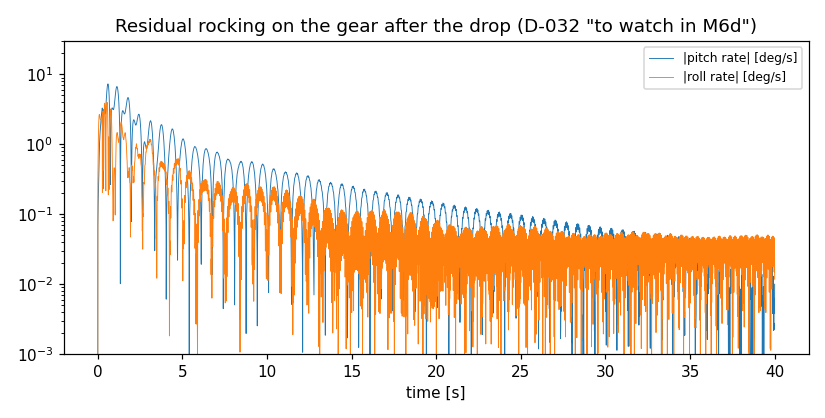
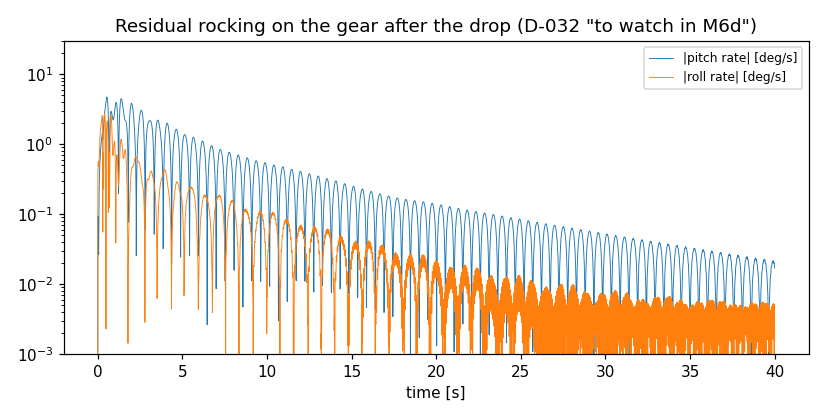
M7a: UH-60A control travels from GenHel Figs. 6.3.1 and 6.4.1
The stick and pedal travels are in GenHel Vol. I after all (cockpit
section). Readings verified by human review. Collective, lateral and
pedal fit the rigging exactly; the generator checks it. Neutral
longitudinal cyclic is uncertain by 0.8 in, so only the two cyclic
offsets stay placeholders, to be pinned against Ballin's trim plots.

The brake-turn test now compares against the brakes-off drift: the new
centred cyclic sits the aircraft 1.1 deg more nose-up, loading the
non-swivelling tail wheel, so the turns are smaller (0.08 and 0.09 deg).
M6d validation numbers regenerated.

Changed region(s): [[0.0909, 0.1866, 0.9394, 0.8708]]

diff --git a/tools/build_uh60a_config.py b/tools/build_uh60a_config.py
@@ -18,10 +18,11 @@ What it works out:
   p. 5.7-9, so positive to starboard), not as a buttline.
 - Controls (§5.5, Figs. 5.1.6(a)-(d)): normalized input -> stick or pedal inches -> GenHel's
   mechanical mixing [deg] -> the swashplate phase rotation (p. 5.1-24), written as the
-  offsets and gains of Eyas's linear control map. The travels in inches are not in GenHel
-  Vol. I, so each is a placeholder spanning the rotor-head pitch limits (p. 5.5-20) with
-  collective full down and the other inputs at zero; every value that depends on them is
-  tagged !placeholder.
+  offsets and gains of Eyas's linear control map. The travels in inches come from GenHel's
+  cockpit section (Figs. 6.3.1 and 6.4.1, pp. 6.16-6.17; D-035). Collective, lateral and pedal
+  fit the rigging exactly (checked here). The longitudinal stroke is given but its rows put
+  neutral cyclic in three places; neutral is their mean, and the values that depend on it
+  (the theta1s and theta1c offsets) are tagged !placeholder.
 """
 
 import argparse
@@ -121,28 +122,68 @@ def gear_constants():
     return out
 
 
-def control_map(rig, mr):
+def travels(rig, tv):
+    """Stick and pedal travels [in] from Figs. 6.3.1 and 6.4.1, checked against the rigging.
+
+    Returns (xc, xa, xb, xp, lon_spread): each travel as (inches at -1 or 0, inches at +1),
+    and the spread [in] of the three neutral-cyclic estimates behind xb.
+    """
+    def thosum(xc_in):
+        return rig["KXCTH0"] * xc_in
+
+    def close(a, b, what, tol=0.01):
+        if abs(a - b) > tol:
+            raise ValueError(f"control travels: {what}: {a:.4f} against {b:.4f} deg")
+
+    # Collective: 0 in (full down) to the stroke; the figure's ends must be the rigging's.
+    xc = (0.0, tv["STROKE_C"])
+    close(thosum(xc[0]) + rig["BIAS_C"], tv["TH0_LOW"], "collective low")
+    close(thosum(xc[1]) + rig["BIAS_C"], tv["TH0_HIGH"], "collective high")
+    xc_low, xc_mid, xc_high = xc[0], 0.5 * (xc[0] + xc[1]), xc[1]
+
+    # Pedal: the pinned (neutral) pedal gives the figure's 15.0 deg at mid collective; the
+    # travel is the stroke with overtravel, which the figure's end rows use.
+    xp_n = (tv["P_PIN_THR"] - thosum(xc_mid) - rig["BIAS_P"]) / rig["KXPTHR"]
+    h = 0.5 * tv["STROKE_P_OVR"]
+    close(h, tv["P_LEFT_IN"], "pedal half stroke (left)", 1e-9)
+    close(h, tv["P_RIGHT_IN"], "pedal half stroke (right)", 1e-9)
+    xp = (xp_n - h, xp_n + h)  # -1 = full left (more thrust), +1 = full right
+    close(rig["KXPTHR"] * xp[0] + thosum(xc_mid) + rig["BIAS_P"], tv["P_LEFT_THR"], "pedal left")
+    close(rig["KXPTHR"] * xp[1] + thosum(xc_mid) + rig["BIAS_P"], tv["P_RIGHT_THR"], "pedal right")
+
+    # Lateral: the rows are at low collective; neutral from the right row, the others checked.
+    def a1s(xa_in, xc_in):
+        return rig["KXAA1S"] * xa_in + rig["MIX_AC"] * thosum(xc_in) + rig["BIAS_A"]
+    xa_n = (tv["A_RIGHT_A1S"] - rig["MIX_AC"] * thosum(xc_low) - rig["BIAS_A"]) / rig["KXAA1S"] \
+        - tv["A_RIGHT_IN"]
+    xa = (xa_n - 0.5 * tv["STROKE_A"], xa_n + 0.5 * tv["STROKE_A"])
+    close(a1s(xa_n - tv["A_LEFT_IN"], xc_low), tv["A_LEFT_A1S"], "lateral left")
+    close(a1s(xa_n - tv["A_PIN_IN"], xc_low), tv["A_PIN_A1S"], "lateral pinned")
+
+    # Longitudinal, with the pedal at neutral: each row gives its own neutral cyclic. They
+    # disagree by up to 0.8 in (DATA_GAPS.md), so neutral is their mean.
+    kb = rig["KXBB1S"] * rig["SIGN_XB2"]
+
+    def b1s_rest(xc_in):  # B1S with the stick at XB+2 = 0
+        return (rig["MIX_BC"] * thosum(xc_in) + rig["MIX_BP"] * rig["KXPTHR"] * xp_n
+                + rig["BIAS_B"])
+    est = [(tv["B_FWD_B1S"] - b1s_rest(xc_high)) / kb - tv["B_FWD_IN"],
+           (tv["B_PIN_B1S"] - b1s_rest(xc_low)) / kb + tv["B_PIN_IN"],
+           (tv["B_AFT_B1S"] - b1s_rest(xc_mid)) / kb + tv["B_AFT_IN"]]
+    xb_n = sum(est) / len(est)
+    xb = (xb_n - 0.5 * tv["STROKE_B"], xb_n + 0.5 * tv["STROKE_B"])  # -1 = full aft
+    return xc, xa, xb, xp, max(est) - min(est)
+
+
+def control_map(rig, mr, tv):
     """Normalized controls -> GenHel inches -> blade pitch, as linear-map rows [deg].
 
-    Returns (travel, main, tail): travel maps each input to (inches at -1 or 0, inches at +1);
+    Returns (travel, main, tail, lon_spread): travel maps each input to (inches at -1 or 0, inches at +1);
     main and tail are {row: {input: gain [deg per unit], 'offset': deg}}.
     """
     sx = rig["SIGN_XB2"]
-    # Travels (placeholders): the span of each head limit with collective full down (XC = 0)
-    # and the other inputs at zero; length = head range / gain.
-    xc = (0.0, (rig["TH0_UL"] - rig["BIAS_C"]) / rig["KXCTH0"])  # collective 0..1
-    xa = ((rig["A1S_LL"] - rig["BIAS_A"]) / rig["KXAA1S"],
-          (rig["A1S_UL"] - rig["BIAS_A"]) / rig["KXAA1S"])        # lat -1..+1 (right = A1S up)
-    kb = rig["KXBB1S"] * sx                                      # B1S per inch of XB+2
-    xb_lo = (rig["B1S_LL"] - rig["BIAS_B"]) / kb
-    xb_hi = (rig["B1S_UL"] - rig["BIAS_B"]) / kb
-    xb = (min(xb_lo, xb_hi), max(xb_lo, xb_hi))
-    # Forward stick must raise B1S (tilt the disc forward); with kb > 0 that is +XB+2.
-    if kb < 0:
-        xb = (xb[1], xb[0])
-    xp_hi = (rig["THR_LL"] - rig["BIAS_P"]) / rig["KXPTHR"]       # right pedal: less thrust
-    xp_lo = (rig["THR_UL"] - rig["BIAS_P"]) / rig["KXPTHR"]
-    xp = (xp_lo, xp_hi)
+    kb = rig["KXBB1S"] * sx  # B1S per inch of forward stick (XB+2)
+    xc, xa, xb, xp, lon_spread = travels(rig, tv)
     travel = {"collective": xc, "lat_cyclic": xa, "lon_cyclic": xb, "pedal": xp}
 
     def affine(lo, hi, zero_to_one):
@@ -180,15 +221,16 @@ def control_map(rig, mr):
     theta1s = add((math.sin(d), a1s), (-math.cos(d), b1s))
     main = {"theta0": theta0, "theta1s": theta1s, "theta1c": theta1c}
     tail = {"theta0": thettr}
-    return travel, main, tail
+    return travel, main, tail, lon_spread
 
 
-def map_rows(rows, indent):
-    """YAML for a linear control map; every value depends on the placeholder travels."""
+def map_rows(rows, indent, placeholders=()):
+    """YAML for a linear control map; the (row, input) pairs in `placeholders` are tagged."""
     order = ("offset", "collective", "lon_cyclic", "lat_cyclic", "pedal")
     lines = []
     for row, gains in rows.items():
-        items = [f"{k}: {q(float(f'{gains[k]:.10g}'), 'deg', True)}" for k in order
+        items = [f"{k}: {q(float(f'{gains[k]:.10g}'), 'deg', (row, k) in placeholders)}"
+                 for k in order
                  if k in gains and gains[k] != 0.0]
         lines.append(f"{indent}{row}: {{{', '.join(items)}}}")
     return "\n".join(lines)
@@ -210,7 +252,8 @@ def build():
     def pos(fs, bl, wl):
         return vec(-(fs - fs_cg), -(bl - bl_cg), -(wl - wl_cg))
 
-    travel, main_map, tail_map = control_map(rig, mr)
+    tv = constants("control_travels_6_3.txt")
+    travel, main_map, tail_map, lon_spread = control_map(rig, mr, tv)
     k_main = 10.0 * vertical_slope("main_tire_vertical.csv", gear["PM"])
     k_tail = 10.0 * vertical_slope("tail_tire_vertical.csv", gear["PN"])
 
@@ -271,10 +314,11 @@ def build():
 # FS {fmt(round(fs_cg, 4))}, BL {fmt(round(bl_cg, 4))}, WL {fmt(round(wl_cg, 4))} in, the origin of every position here.
 # Positions: x = -(FS - FS_cg), y = -(BL - BL_cg) (buttlines positive to port), z = -(WL - WL_cg).
 #
-# Controls (D-034): stick and pedal travels are not in GenHel Vol. I. Placeholders spanning the
-# rotor-head pitch limits with collective down:
+# Controls (D-034, D-035): stick and pedal travels from GenHel Figs. 6.3.1 and 6.4.1 (pp. 6.16-6.17):
 #   {trav}.
-# Every control-map value depends on them and is tagged !placeholder.
+# Collective, lateral and pedal fit the rigging exactly; the pedal uses its stroke with overtravel.
+# The longitudinal rows put neutral cyclic in three places {fmt(round(lon_spread, 3))} in apart; neutral is
+# their mean, so the theta1s and theta1c offsets are tagged !placeholder.
 
 geodetic_origin: {{latitude: "0 deg", longitude: "0 deg", altitude: "0 m"}}  # scenario, not aircraft data
 
@@ -309,7 +353,7 @@ components:
         inertia: "{fmt(mr["I_B"])} slug*ft^2"
         delta3: "{fmt(mr["DELTA_3"])} deg"
     controls:
-{map_rows(main_map, "      ")}
+{map_rows(main_map, "      ", (("theta1s", "offset"), ("theta1c", "offset")))}
 
   - type: airframe_aero
     name: airframe

diff --git a/tests/unit/test_uh60a_aircraft.cpp b/tests/unit/test_uh60a_aircraft.cpp
@@ -25,22 +25,16 @@ constexpr double kDeg = std::numbers::pi / 180.0;
 // ---- Config ------------------------------------------------------------------------
 
 // The config loads through the public API, with exactly the placeholders
-// D-034 declares: the control map (it depends on the stick and pedal travels,
-// which GenHel Vol. I doesn't give) and the strut top stops (D-032 item 6).
+// D-034 and D-035 declare: the cyclic offsets (they depend on neutral
+// longitudinal cyclic, which GenHel's Fig. 6.3.1 leaves uncertain by 0.8 in)
+// and the strut top stops (D-032 item 6).
 TEST(Uh60aAircraft, ConfigLoadsWithTheDeclaredPlaceholders) {
     const Model m = Model::from_file(test::uh60a_config_path());
     std::vector<std::string> p = m.placeholders();
     std::sort(p.begin(), p.end());
     std::vector<std::string> expect;
     for (const char* r : {"theta1c", "theta1s"}) {
-        for (const char* k : {"collective", "lat_cyclic", "lon_cyclic", "offset", "pedal"}) {
-            expect.push_back(std::string("components[0].controls.") + r + "." + k);
-        }
-    }
-    expect.emplace_back("components[0].controls.theta0.collective");
-    expect.emplace_back("components[0].controls.theta0.offset");
-    for (const char* k : {"collective", "offset", "pedal"}) {
-        expect.push_back(std::string("components[2].controls.theta0.") + k);
+        expect.push_back(std::string("components[0].controls.") + r + ".offset");
     }
     for (const char* g : {"0", "1", "2"}) {
         expect.push_back(std::string("components[3].gears[") + g + "].strut.stop_damping");
@@ -157,13 +151,17 @@ TEST(Uh60aAircraft, OneBrakeTurnsTowardsItsSide) {
         return std::remainder(h - h0, 2.0 * std::numbers::pi);
     };
     const double free = heading_after(0.0, 0.0);
+    const double drift = std::abs(turn(free, 0.0));
     const double left = turn(heading_after(1.0, 0.0), free);
     const double right = turn(heading_after(0.0, 1.0), free);
-    // About −0.26° and +0.51°: the tire side forces, the tail wheel's above
-    // all (it doesn't swivel, D-032), take most of the brake's yaw moment.
-    // The free run drifts 0.02°.
-    EXPECT_LT(left, -0.1 * kDeg);  // nose left: heading decreases
-    EXPECT_GT(right, 0.1 * kDeg);
+    // About −0.083° and +0.090°, against a free-run drift of 0.017°: the tire
+    // side forces, the tail wheel's above all (it doesn't swivel, D-032), take
+    // most of the brake's yaw moment. The turn depends on the load on the tail
+    // wheel, and so on the attitude the rotor's flat-pitch cyclic gives (0.26°
+    // and 0.51° with D-034's placeholder travels, 1.1° less nose-up).
+    EXPECT_GT(drift, 0.0);
+    EXPECT_LT(left, -3.0 * drift);  // nose left: heading decreases
+    EXPECT_GT(right, 3.0 * drift);
 }
 
 // ---- Control rigging (layer 1) -----------------------------------------------------

diff --git a/tests/support/m6d_fixtures.hpp b/tests/support/m6d_fixtures.hpp
@@ -41,24 +41,29 @@ inline constexpr double kGenHelWeight = 16638.0;  // [lbm]
 inline constexpr double kFSCG = 355.9;            // [in]
 inline constexpr double kWLCG = 248.2;            // [in]
 
-// The placeholder travels (D-034): each spans the rotor-head pitch limits
-// (p. 5.5-20) with collective down and the other inputs at zero. Normalized
-// input → GenHel inches. Shared by the tests and the validation run; if the
-// travels change in tools/build_uh60a_config.py, ControlMapsAreGenHelsRigging
-// fails until these follow.
+// The travels (D-035), from GenHel Figs. 6.3.1 and 6.4.1 (pp. 6.16-6.17),
+// written out here from the figure rather than taken from the generator.
+// Normalized input → GenHel inches. Shared by the tests and the validation
+// run; if the travels change in tools/build_uh60a_config.py,
+// ControlMapsAreGenHelsRigging fails until these follow.
 struct Travels {
-    static double xc(double c) { return 10.0 * c; }       // 9.9..25.9 deg / 1.6
-    static double xa(double l) { return 5.0 + 5.0 * l; }  // ±8 deg / 1.6
-    static double xb2(double f) {                         // −12.5..16.3 deg / 2.83
-        const double lo = (-12.5 + 9.7754) / 2.83;
-        const double hi = (16.3 + 9.7754) / 2.83;
-        return 0.5 * (lo + hi) + 0.5 * (hi - lo) * f;
+    static double xc(double c) { return 10.0 * c; }       // stroke 10.0 in, 0 = full down
+    static double xa(double l) { return 5.0 + 5.0 * l; }  // stroke 10.0 in, neutral 5.0 in
+    // Stroke 10.0 in about neutral cyclic, the mean of the three neutrals the
+    // figure's rows imply (pedal at neutral; they spread by 0.81 in, DATA_GAPS.md).
+    static double xb2(double f) {
+        const double b_rest_high = 0.29 * 16.0 - 0.2936 * -5.539 * kXpNeutral - 9.7754;
+        const double b_rest_mid = 0.29 * 8.0 - 0.2936 * -5.539 * kXpNeutral - 9.7754;
+        const double b_rest_low = -0.2936 * -5.539 * kXpNeutral - 9.7754;
+        const double neutral = ((16.5 - b_rest_high) / 2.83 - 5.0 + (-11.0 - b_rest_low) / 2.83 +
+                                3.89 + (-12.3 - b_rest_mid) / 2.83 + 5.0) /
+                               3.0;
+        return neutral + 5.0 * f;
     }
-    static double xp(double p) {  // 36.5..4.5 deg / −5.539 (right pedal: less thrust)
-        const double lo = (36.5 - 21.9) / -5.539;
-        const double hi = (4.5 - 21.9) / -5.539;
-        return 0.5 * (lo + hi) + 0.5 * (hi - lo) * p;
-    }
+    // Stroke with overtravel 5.38 in about the pinned pedal, which gives 15.0°
+    // at mid collective: (21.9 + 1.6 × 5 − 15.0) / 5.539 in. Right pedal: less thrust.
+    static constexpr double kXpNeutral = (21.9 + 8.0 - 15.0) / 5.539;
+    static double xp(double p) { return kXpNeutral + 2.69 * p; }
 };
 
 // The UH-60A components, built from the config, evaluated outside the

diff --git a/docs/VALIDATION.md b/docs/VALIDATION.md
@@ -489,7 +489,7 @@ M6d puts the UH-60A together from data (D-034):
 
 The config is `data/uh60a/uh60a.yaml`, written by `tools/build_uh60a_config.py` from the GenHel transcriptions (new: main- and tail-rotor constants, airframe stations, mass properties and the control rigging of §5.5).
 - **Mass:** GenHel's weight and CG are the whole aircraft's. The airframe excludes the blades and the unsprung masses, which carry their own weight. Its CG lies 1.03 in aft of and 3.61 in below GenHel's, and every position in the config is measured from it.
-- **Controls:** the controls follow GenHel's mechanical mixing and swashplate phase. The stick and pedal travels are placeholders (GenHel Vol. I doesn't give them), so the hover controls below are also given in GenHel's inches and degrees.
+- **Controls:** the controls follow GenHel's mechanical mixing and swashplate phase. The stick and pedal travels were placeholders in M6d; since M7a they come from GenHel's cockpit figures (Figs. 6.3.1 and 6.4.1; D-035), with neutral longitudinal cyclic uncertain by 0.8 in. The hover controls below are also given in GenHel's inches and degrees.
 
 This completes M6.
 
@@ -499,12 +499,12 @@ Tests: `tests/unit/test_uh60a_aircraft.cpp`. The harness in `tests/support/m6d_f
 
 | Acceptance criterion | Status | Evidence |
 |---|---|---|
-| Config | ✅ | `ConfigLoadsWithTheDeclaredPlaceholders`: the model loads through `Model::from_file`, and the placeholders are exactly the control maps (the travels) and the strut top stops (D-032). `tools/build_uh60a_config.py --check` matches the YAML to the transcriptions (in CI). |
+| Config | ✅ | `ConfigLoadsWithTheDeclaredPlaceholders`: the model loads through `Model::from_file`, and the placeholders are exactly the main rotor's two cyclic offsets (neutral longitudinal cyclic, D-035) and the strut top stops (D-032). `tools/build_uh60a_config.py --check` matches the YAML to the transcriptions (in CI). |
 | Mass and geometry (D-034 items 2, 3) | ✅ | `MassSplitKeepsGenHelsWeightAndCg`: airframe + blades + unsprung masses = 16 638 lbm to 1e-5 lbm. Their CG is GenHel's to 1e-5 in, placed from the config's hub and GenHel's station differences, not from the generator's arithmetic. The shaft leans forward 3° with no lateral component. |
-| **Layer 1:** control rigging | ✅ | `ControlMapsAreGenHelsRigging`: GenHel's Figs. 5.1.6(a)–(d) and the p. 5.5-20 gains, test-side in inches and degrees, through the placeholder travels and the p. 5.1-24 blade-pitch equation with the swashplate phase. Blade pitch matches at 12 azimuths and the tail-rotor command matches, both to 1e-7°, for 200 random inputs. The directions are those of `Controls`. |
+| **Layer 1:** control rigging | ✅ | `ControlMapsAreGenHelsRigging`: GenHel's Figs. 5.1.6(a)–(d) and the p. 5.5-20 gains, test-side in inches and degrees, through the travels of Figs. 6.3.1 and 6.4.1 and the p. 5.1-24 blade-pitch equation with the swashplate phase. Blade pitch matches at 12 azimuths and the tail-rotor command matches, both to 1e-7°, for 200 random inputs. The directions are those of `Controls`. |
 | **Whole aircraft:** pedal balances torque (D-028 3b) | ✅ | `HoverPedalBalancesMainRotorTorque`: out of ground effect, body held level and at rest, cyclic centred, a root search sets collective and pedal for zero vertical force and zero yaw moment. The tail rotor's force is along its 70° cant (to 1e-12), and its moment is r × F with r from GenHel's stations (to 1e-9). That hand-worked yaw moment balances the other components' to 1 N·m. The main rotor turns the airframe nose right; the tail rotor pushes right and nose left. |
 | **Whole aircraft:** sits stably on the ground (D-028 3a) | ✅ | `SitsStablyOnTheGround`: dropped level from 0.3 m with collective down, brakes set and the pedal that balances yaw at that collective. Averaged over 15–20 s, the ground normal loads equal weight minus aerodynamic lift within 0.2 % (2e-6 over 30–40 s in the validation run). It doesn't creep: under 5 mm and 1e-4 rad of heading between the 5–10 s and 15–20 s windows. |
-| Gear sides and brakes | ✅ | `MainGearSidesMatchTheirBrakes`: `left_main` at y = −53.2 in (port) with the left brake, `right_main` at +53.2 in with the right brake, the tail wheel on the centreline and unbraked (GenHel p. 5.7-9; p. 5.7-10's missing minus, DATA_GAPS.md). `OneBrakeTurnsTowardsItsSide`: rolling at 3 m/s from tire contact, collective down, pedal balanced. Against the same run with no brakes (0.02° drift in 1.5 s), the left brake alone turns the nose 0.26° left and the right brake 0.51° right. The tire side forces take most of the brake's yaw moment, the non-castering tail wheel's above all (D-032 item 10). |
+| Gear sides and brakes | ✅ | `MainGearSidesMatchTheirBrakes`: `left_main` at y = −53.2 in (port) with the left brake, `right_main` at +53.2 in with the right brake, the tail wheel on the centreline and unbraked (GenHel p. 5.7-9; p. 5.7-10's missing minus, DATA_GAPS.md). `OneBrakeTurnsTowardsItsSide`: rolling at 3 m/s from tire contact, collective down, pedal balanced. Against the same run with no brakes (0.017° drift in 1.5 s), the left brake alone turns the nose 0.083° left and the right brake 0.090° right; the test asks for more than three times the drift. (With M6d's placeholder travels the aircraft sat 1.1° less nose-up, with less load on the tail wheel, and turned 0.26° and 0.51°.) The tire side forces take most of the brake's yaw moment, the non-castering tail wheel's above all (D-032 item 10). |
 | Real time | ✅ | `RealTimeRules`: the whole aircraft through `Model` at 60 Hz host frames. The window from 0.2 s to 0.53 s takes in the first tire contact (asserted: no gear load at its start, load at its end). Over it: no allocation in `advance()`, a bit-identical repeat run, and an exact snapshot and restore. |
 
 Planted bugs, each caught: the tail rotor on the port side (BL sign); the main gears' names and brakes swapped (the generator's former BLMGA sign, caught by both gear-side tests); the shaft tilted aft; a wrong blade mass; the tail-rotor cant flipped; the swashplate phase's sign; the sign of the pedal-to-longitudinal-cyclic mixing.
@@ -513,25 +513,25 @@ Planted bugs, each caught: the tail rotor on the port side (BL sign); the main g
 
 | Quantity | Value |
 |---|---|
-| Collective | 0.492 (XC 4.92 in), θ0 = 17.76° at the cuff |
-| Pedal | 0.501 (XP 1.70 in), tail-rotor command 20.35°, pitch after δ₃ 25.27° |
-| Main rotor | thrust 16 753 lbf, torque 32 290 ft·lbf, 1585 hp |
-| Tail rotor | thrust 1060 lbf |
-| Yaw moments | main rotor +31 132 ft·lbf, tail rotor −31 130, airframe −1.7; sum 2e-4 |
+| Collective | 0.488 (XC 4.88 in), θ0 = 17.71° at the cuff |
+| Pedal | −0.386 (XP 1.65 in), tail-rotor command 20.57°, pitch after δ₃ 25.49° |
+| Main rotor | thrust 16 627 lbf, torque 31 840 ft·lbf, 1563 hp |
+| Tail rotor | thrust 1058 lbf |
+| Yaw moments | main rotor +31 114 ft·lbf, tail rotor −31 076, airframe −37.5; sum −2e-3 |
 
-The thrust exceeds the weight by the airframe's download and the tail rotor's downward component. The main-rotor power gives a figure of merit of about 0.76 against ideal momentum power, in the usual range for a hover rotor. The tail rotor has no power model (DATA_GAPS.md). The controls in inches depend on the placeholder travels; the blade angles don't.
+The thrust exceeds the weight by the airframe's download and the tail rotor's downward component. The main-rotor power gives a figure of merit of about 0.76 against ideal momentum power, in the usual range for a hover rotor. The tail rotor has no power model (DATA_GAPS.md). Since M7a (D-035) these use GenHel's travels. With M6d's placeholders the same check gave 16 753 lbf, 32 290 ft·lbf and 1585 hp: centred cyclic was a different disc tilt (centred cyclic is not a trim; M7 trims it).
 
 There is no published UH-60A hover control position in the library yet. This is a validation entry for M7, not a gate. The comparison will also bring in the deferred elastic twist, rotor-force filter and profile-drag correction (D-034 item 5).
 
-**Drop and settle.** Level from 0.3 m: collective down, brakes set, pedal 0.540 (the yaw balance at collective down). The rotor at flat pitch still lifts 572 lbf. After 30 s the gear carries 16 066 lbf, against weight minus lift of 16 066 lbf. The aircraft sits at 0.26° nose up and 1.10° right wing down; the main rotor's side force and the tail rotor's thrust both act on the airframe. The heading moves by 0.0015° after the first 5 s.
+**Drop and settle.** Level from 0.3 m: collective down, brakes set, pedal −0.310 (the yaw balance at collective down). The rotor at flat pitch still lifts 570 lbf. After 30 s the gear carries 16 068 lbf, against weight minus lift of 16 068 lbf. The aircraft sits at 0.83° nose up and 0.08° right wing down; the main rotor's side force and the tail rotor's thrust both act on the airframe. The heading moves by 0.0046° after the first 5 s. (With M6d's placeholder travels, centred cyclic tilted the disc differently and the aircraft sat at 0.26° nose up and 1.10° right wing down.)
 
 ![Drop](validation/m6/m6d_drop.png)
 
-The right main carries more than the left (35.0 against 26.7 kN at the end), as the right-wing-down attitude implies. Before the gear-side fix the plot's two main-wheel curves were labelled the wrong way round. The run itself was bit-identical, since both mains have the same data and both brakes were set.
+In M6d, at 1.10° right wing down, the right main carried more than the left (35.0 against 26.7 kN at the end); now the aircraft sits nearly level. Before the gear-side fix the plot's two main-wheel curves were labelled the wrong way round. The run itself was bit-identical, since both mains have the same data and both brakes were set.
 
-**The rocking D-032 warned of.** After the drop the aircraft rocks in pitch at 0.7–0.8 Hz. The motion halves about every 5 s (ζ ≈ 0.03): RMS pitch rate 0.54°/s over 5–10 s, 0.14 over 15–20 s, 0.023 over 35–40 s. This is the pitch mode on the struts and tires: the strut dampers (∝ ṡ²) give almost nothing at small stroke rates, as GenHel's data have it. It is not D-032's 13.5 rad/s fore–aft mode, which stays quiet here.
+**The rocking D-032 warned of.** After the drop the aircraft rocks in pitch at 0.9–1.0 Hz. The motion halves about every 5 s (ζ ≈ 0.02): RMS pitch rate 0.66°/s over 5–10 s, 0.14 over 15–20 s, 0.019 over 35–40 s (M6d, with the placeholder travels: 0.7–0.8 Hz, 0.54, 0.14, 0.023). This is the pitch mode on the struts and tires: the strut dampers (∝ ṡ²) give almost nothing at small stroke rates, as GenHel's data have it. It is not D-032's 13.5 rad/s fore–aft mode, which stays quiet here.
 
-The roll rate levels off at about 0.046°/s at 17.2 Hz. That is exactly 4Ω: the main rotor's blade-passage vibration (about 4e-4° of roll), not an instability.
+The roll rate levels off at about 0.006°/s peak at 17.2 Hz (0.046°/s in M6d, with the placeholder travels' larger disc tilt). That is exactly 4Ω: the main rotor's blade-passage vibration, not an instability.
 
 ![Rocking](validation/m6/m6d_rocking.png)
 

diff --git a/docs/DATA_GAPS.md b/docs/DATA_GAPS.md
@@ -240,17 +240,17 @@ Test oracle for D-027 layer 3, not aircraft data. Readings: `tests/validation/re
 - *Partial braking* — `assumption` (D-032 notes). GenHel's brakes are set (K_μB = 1.0) or off (0.01). For a brake input between, k_B is interpolated linearly; no pedal-to-torque data in the library.
 - *Tire tables beyond their range* — `assumption` (D-032 notes). The vertical load continues with the last segment's slope past 8 in (main) and 5 in (tail); the lateral and damping-stiffness tables hold their end values.
 
-## UH-60A control rigging (M6d) — transcribed; XB signs `VERIFIED by human review (2026-10-14)`; travels `!placeholder`
+## UH-60A control rigging (M6d) — transcribed; XB signs `VERIFIED by human review (2026-10-14)`; travels from Figs. 6.3.1 and 6.4.1 (M7a), neutral longitudinal cyclic `!placeholder`
 **Source:** GenHel §5.5, Figs. 5.1.6(a)–(d), pp. 5.5-14 to 5.5-17 (PDF pp. 190–193, pages rotated), and §5.5.4, p. 5.5-20 (PDF p. 196), handwritten. File: `data/uh60a/genhel/control_rigging_5_5.txt`. Everything was read with high confidence except the item below.
 - *Signs at the first longitudinal junction* — `VERIFIED by human review (2026-10-14)`, from 400 dpi crops of Fig. 5.1.6(c): XB = −XB+1 − XB+2 + XBOLS. The "−" beside the XB+1 arrow belongs to that input, not to the label XB; the matching junctions in the other three channels are all "+". So positive XB+2 (the pilot's input) raises B1S and tilts the disc forward: positive is forward stick. Eyas uses XB+2 only; XB+1 is GenHel's trim-algorithm input.
-- *Stick and pedal travels* — `missing`; `!placeholder` in the config. The gains are in deg/in, but the travels are only in Vol. II. Eyas spans the rotor-head pitch limits (p. 5.5-20) with collective down and the other inputs at zero: collective 0–10 in and lateral 0–10 in come out exactly; longitudinal −0.963 to 9.214 in and pedal −2.636 to 3.141 in do not, so the rule is doubtful there. Every control-map value in `uh60a.yaml` is tagged. A public source of the UH-60A control travels would replace them (D-034).
-  - *Found in Vol. I after all (2026-10-15, M7; SPEC_REVIEW #28)* — `UNVERIFIED — needs human review`. §6 (cockpit) gives the strokes: Fig. 6.4.1 (p. 6.17, PDF p. 361) lists lateral 10.0 in, longitudinal 10.0 in, pedal 4.92 in (5.38 in with overtravel), collective 10.0 in, "measured from 50 % control position". Fig. 6.3.1 (p. 6.16, PDF p. 360) gives each control's travel with the rotor output at the stops. Checked against the rigging (D-034 item 4):
+- *Stick and pedal travels* — `missing` in M6d (`!placeholder` in the config); found in Vol. I §6 in M7a (below). In M6d the travels were thought to be only in Vol. II, so Eyas spanned the rotor-head pitch limits (p. 5.5-20) with collective down and the other inputs at zero: collective 0–10 in and lateral 0–10 in come out exactly; longitudinal −0.963 to 9.214 in and pedal −2.636 to 3.141 in do not, so the rule is doubtful there. Every control-map value in `uh60a.yaml` was tagged (D-034).
+  - *Found in Vol. I after all (2026-10-15, M7; SPEC_REVIEW #28)* — readings `VERIFIED by human review (2026-10-15)`, row by row against the scan (`data/uh60a/genhel/control_travels_6_3.txt`). Used since M7a: collective, lateral and pedal travels are sourced; the pedal uses its stroke with overtravel (5.38 in), which the figure's end rows use; neutral longitudinal cyclic is the mean of the three rows' estimates, so the theta1s and theta1c offsets stay `!placeholder` until M7c pins neutral against Ballin's (NASA TM-88360) GenHel trim plots of longitudinal stick position. §6 (cockpit) gives the strokes: Fig. 6.4.1 (p. 6.17, PDF p. 361) lists lateral 10.0 in, longitudinal 10.0 in, pedal 4.92 in (5.38 in with overtravel), collective 10.0 in, "measured from 50 % control position". Fig. 6.3.1 (p. 6.16, PDF p. 360) gives each control's travel with the rotor output at the stops. Checked against the rigging (D-034 item 4):
     - *collective:* 0 → θ_cuff 9.9°, 10.0 in → 25.9°: fits θ0 = 1.60 XC + 9.9 with XC 0–10 in, as the placeholder;
     - *lateral:* left 5.0 in → A1S −8.0°, right 5.0 in → +8.0°, "pinned" 0.96 in left → −1.54° (low collective): fits A1S = 1.60 XA − 8 with XA 0–10 in and neutral at 5.0 in, as the placeholder;
     - *pedal:* left 2.69 in → θ_TRcuff 29.9°, neutral 15.0°, right 2.69 in → 0.1° (mid collective, with overtravel): fits θ_TR = −5.539 XP + 1.60 XC + 21.9 exactly with XP 0–5.38 in (neutral 2.69 in at XC = 5). The placeholder −2.636 to 3.141 in is wrong;
     - *longitudinal:* forward 5.0 in → B1S 16.5° (high collective), aft 5.0 in → −12.3° (mid collective), "pinned" aft 3.89 in → −11.0° (low collective). I could not fit these to B1S = −2.83 XB + 0.29 THØSUM − 0.2936 THRSUM − 9.7754 with any single XB range, with the pedal at neutral. The pedal setting behind each row is unstated, and the B1S sign convention of the figure may differ from the rigging's.
 
-    To check against the scan: the four strokes, the footnotes (\* high, \*\* low, \*\*\* mid collective, \*\*\*\* with overtravel, \*\*\*\*\* "considers control reduction due to redundant quadrant") and the longitudinal rows. Not used until confirmed.
+    The readings are right (human review), so the longitudinal mismatch is in the figure, most likely an unstated pedal setting behind each row: with the pedal at neutral the rows put neutral cyclic at 1.10, 1.91 and 1.74 in forward of the rigging's zero (forward, pinned and aft rows), 0.81 in apart.
 - *Rotor-head pitch travel limits* (p. 5.5-20) — transcribed, not applied: GenHel adds them "for piloted simulation". Revisit in M8.
 
 ## UH-60A main-rotor features not modelled (M6d) — deferred to M7 (D-034)
